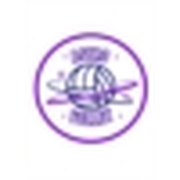
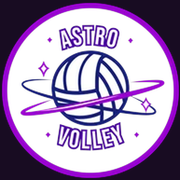
Nomi leggibili anche in prenota, icone giuste, cascata su tutte le card
Tre difetti visti a schermo, nessuno dei quali toccava i dati.

1. Nomi delle squadre in prenota. La pagina stampava turno.casa e
   turno.trasferta come arrivano dal foglio, cioe' in maiuscolo
   ("FLAT SPORT - SANTA MARIA ROSA NOVA"), mentre la home li scrive gia'
   con titolaNome. Ora anche prenota li formatta, e con loro le palestre,
   che stavano nello stesso riquadro e sarebbero rimaste maiuscole.

   titolaNome e normName passano in site/formato-nomi.js, importato da
   app.js e prenota.js: erano in app.js, ma prenota.js e' un modulo
   separato e una seconda copia sarebbe divergita. Il file si chiama
   formato-nomi.js e non nomi.js perche' site/prenota/nomi.js esiste gia'
   ed e' l'elenco dei refertisti.

   La formattazione resta solo nel rendering: le chiavi delle
   prenotazioni sono "data|casa|trasferta" sui nomi grezzi, e
   site/prenota/palestre.js e' indicizzato su quelle. Formattare il dato
   avrebbe rotto l'abbinamento con i turni gia' presi.

2. Icone. favicon.png era un'immagine diversa dallo stemma, tutta opaca,
   con gli angoli bianchi. Ora favicon, apple-touch-icon e le due icone
   del manifest si generano ridimensionando logo-tondo.png, che lo stemma
   lo e' gia' e ha gli angoli trasparenti. L'apple-touch-icon va su fondo
   #180c22 perche' iOS la trasparenza la ignora e mette il nero. Aggiunto
   manifest.json (l'app si puo' installare) e theme-color alle tre pagine.

3. Animazione delle card. C'erano quattro regole nth-child(1..4) e le
[…]

diff --git a/site/app.js b/site/app.js
@@ -1,5 +1,6 @@
 import { fetchLiveFipav, fetchLiveFipavMobile } from "./fipav-live.js";
 import { fetchLiveAsi } from "./asi-live.js";
+import { normName, titolaNome, slugify } from "./formato-nomi.js";
 
 const OUR_PATTERN = "astro";
 const DATA_URL = "data/schedule.json";
@@ -114,67 +115,6 @@ function allMatches() {
     for (const m of comp.matches) rows.push({ ...m, _comp: comp });
   }
   return rows;
-}
-
-// Confronto fra nomi: maiuscole, accenti e spazi non contano. Serve perche'
-// FIPAV e ASI scrivono lo stesso nome in modi diversi ("ASD ASTROVOLLEY").
-function normName(s) {
-  return (s || "")
-    .toLowerCase()
-    .normalize("NFD")
-    .replace(/[\u0300-\u036f]/g, "")
-    .replace(/\s+/g, " ")
-    .trim();
-}
-
-// I nomi arrivano scritti in modi diversi ("ASD ASTROVOLLEY", "Astrovolley
-// Cercola", "MINERVA MEDICA FLYER"): in card si mostrano tutti con la prima
-// lettera maiuscola. Gli acronimi restano maiuscoli, le preposizioni restano
-// minuscole, e dopo apostrofo o virgolette la lettera torna maiuscola.
-const ACRONIMI = new Set(["ASD", "SSD", "AS", "US", "GS", "PD", "IC", "APD", "A", "B", "C", "D"]);
-const MINUSCOLE = new Set(["di", "del", "della", "dei", "degli", "delle", "da", "dal", "in", "con",
-  "su", "per", "e", "ed", "il", "lo", "la", "i", "gli", "le", "un", "una", "al", "alla", "dello", "dell"]);
-
-// Refusi presenti nei nomi ufficiali FIPAV. Si correggono solo a schermo: i
-// dati restano quelli federali, cosi' il confronto con la fonte regge e una
-// rigenerazione dell'importer non annulla la correzione.
-const REFUSI = [
-  [/\bfemmnile\b/gi, "Femminile"],
-  // "Femminile- Eccellenza": nei dati il trattino e' attaccato alla parola
-  // prima. Si distanzia per leggibilita', senza toccare i trattini interni.
-  [/\s*-\s*/g, " - "],
-];
-
-function correggiRefusi(s) {
-  return REFUSI.reduce((acc, [re, giusto]) => acc.replace(re, giusto), s || "");
-}
-
-function titolaNome(s) {
-  const testo = (s || "").trim();
-  if (!testo) return "";
-  let n = 0;
-  const composto = testo
-    .split(/(\s+|[-–/])/)
-    .map((pezzo) => {
-      if (!pezzo || /^\s+$/.test(pezzo) || /^[-–/]$/.test(pezzo)) return pezzo;
-      const primaParola = n === 0;
-      n++;
-      const apo = pezzo.match(/^([A-Za-zÀ-ÿ]+)(['’])(.*)$/);
-      if (apo && !primaParola && MINUSCOLE.has(apo[1].toLowerCase())) {
-        return apo[1].toLowerCase() + apo[2] +
-          apo[3].toLowerCase().replace(/^([a-zà-ÿ])/, (c) => c.toUpperCase());
-      }
-      const puro = pezzo.replace(/[().,"'’]/g, "");
-      if (ACRONIMI.has(puro.toUpperCase())) return pezzo.toUpperCase();
-      if (!primaParola && MINUSCOLE.has(puro.toLowerCase())) return pezzo.toLowerCase();
-      return pezzo.toLowerCase().replace(/(^|['’"(\[.])([a-zà-ÿ])/g, (_, p2, c) => p2 + c.toUpperCase());
-    })
-    .join("");
-  return correggiRefusi(composto);
-}
-
-function slugify(s) {
-  return normName(s).replace(/[^a-z0-9]+/g, "-").replace(/^-|-$/g, "");
 }
 
 function teamConfig(slug) {
@@ -1433,7 +1373,7 @@ function teamCardHtml(t, i) {
   // La card intera porta al calendario. Il link e' vuoto e copre la card con
   // ::after: cosi' il click vale su tutta la superficie ma resta un solo
   // elemento da tastiera, e la prossima partita puo' stare sopra di lui.
-  return `<article class="team-card ${tema}" data-slug="${escapeAttr(t.slug)}">
+  return `<article class="team-card ${tema}" data-slug="${escapeAttr(t.slug)}" style="--i:${i}">
     <a class="card-link" href="?squadra=${escapeAttr(t.slug)}&vista=calendario" data-action="calendario" data-slug="${escapeAttr(t.slug)}">
       <span class="sr-only">Calendario di ${escapeHtml(titolaNome(t.nome))}</span>
     </a>

diff --git a/site/formato-nomi.js b/site/formato-nomi.js
@@ -1,0 +1,65 @@
+// Regole di scrittura dei nomi, condivise fra la home e la pagina prenota.
+//
+// Stanno qui e non in app.js perche' servono anche a prenota.js: due copie
+// divergerebbero e lo stesso nome comparirebbe scritto in due modi.
+
+// Confronto fra nomi: maiuscole, accenti e spazi non contano. Serve perche'
+// FIPAV e ASI scrivono lo stesso nome in modi diversi ("ASD ASTROVOLLEY").
+export function normName(s) {
+  return (s || "")
+    .toLowerCase()
+    .normalize("NFD")
+    .replace(/[\u0300-\u036f]/g, "")
+    .replace(/\s+/g, " ")
+    .trim();
+}
+
+// I nomi arrivano scritti in modi diversi ("ASD ASTROVOLLEY", "Astrovolley
+// Cercola", "MINERVA MEDICA FLYER"): in card si mostrano tutti con la prima
+// lettera maiuscola. Gli acronimi restano maiuscoli, le preposizioni restano
+// minuscole, e dopo apostrofo o virgolette la lettera torna maiuscola.
+const ACRONIMI = new Set(["ASD", "SSD", "AS", "US", "GS", "PD", "IC", "APD", "SMS", "A", "B", "C", "D"]);
+const MINUSCOLE = new Set(["di", "del", "della", "dei", "degli", "delle", "da", "dal", "in", "con",
+  "su", "per", "e", "ed", "il", "lo", "la", "i", "gli", "le", "un", "una", "al", "alla", "dello", "dell"]);
+
+// Refusi presenti nei nomi ufficiali FIPAV. Si correggono solo a schermo: i
+// dati restano quelli federali, cosi' il confronto con la fonte regge e una
+// rigenerazione dell'importer non annulla la correzione.
+const REFUSI = [
+  [/\bfemmnile\b/gi, "Femminile"],
+  // "Femminile- Eccellenza": nei dati il trattino e' attaccato alla parola
+  // prima. Si distanzia per leggibilita', senza toccare i trattini interni.
+  [/\s*-\s*/g, " - "],
+];
+
+export function correggiRefusi(s) {
+  return REFUSI.reduce((acc, [re, giusto]) => acc.replace(re, giusto), s || "");
+}
+
+export function titolaNome(s) {
+  const testo = (s || "").trim();
+  if (!testo) return "";
+  let n = 0;
+  const composto = testo
+    .split(/(\s+|[-–/])/)
+    .map((pezzo) => {
+      if (!pezzo || /^\s+$/.test(pezzo) || /^[-–/]$/.test(pezzo)) return pezzo;
+      const primaParola = n === 0;
+      n++;
+      const apo = pezzo.match(/^([A-Za-zÀ-ÿ]+)(['’])(.*)$/);
+      if (apo && !primaParola && MINUSCOLE.has(apo[1].toLowerCase())) {
+        return apo[1].toLowerCase() + apo[2] +
+          apo[3].toLowerCase().replace(/^([a-zà-ÿ])/, (c) => c.toUpperCase());
+      }
+      const puro = pezzo.replace(/[().,"'’]/g, "");
+      if (ACRONIMI.has(puro.toUpperCase())) return pezzo.toUpperCase();
+      if (!primaParola && MINUSCOLE.has(puro.toLowerCase())) return pezzo.toLowerCase();
+      return pezzo.toLowerCase().replace(/(^|['’"(\[.])([a-zà-ÿ])/g, (_, p2, c) => p2 + c.toUpperCase());
+    })
+    .join("");
+  return correggiRefusi(composto);
+}
+
+export function slugify(s) {
+  return normName(s).replace(/[^a-z0-9]+/g, "-").replace(/^-|-$/g, "");
+}

diff --git a/site/tema.css b/site/tema.css
@@ -162,11 +162,14 @@ body {
 .hero .updated { animation: fade-up 700ms var(--ease-out) 400ms both; }
 .brand-mark { animation: pop 700ms var(--ease-out) 60ms both; }
 
-/* --- card squadra: entrata a cascata (--i lo imposta app.js? no: nth-child) --- */
-.landing-grid > .team-card:nth-child(1) { animation: fade-up 620ms var(--ease-out) 0ms both; }
-.landing-grid > .team-card:nth-child(2) { animation: fade-up 620ms var(--ease-out) 90ms both; }
-.landing-grid > .team-card:nth-child(3) { animation: fade-up 620ms var(--ease-out) 180ms both; }
-.landing-grid > .team-card:nth-child(4) { animation: fade-up 620ms var(--ease-out) 270ms both; }
+/* --- card squadra: entrata a cascata.
+   Il ritardo viene da --i, che app.js scrive sulla card: cosi' vale per tutte
+   le card, anche oltre la quarta, e regge se l'elenco cambia. Il tetto a 8
+   evita che con molte squadre l'ultima arrivi troppo tardi. --- */
+.landing-grid > .team-card {
+  animation: fade-up 620ms var(--ease-out) both;
+  animation-delay: calc(min(var(--i, 0), 8) * 90ms);
+}
 
 /* --- righe del calendario: entrata a cascata.
    nth-child invece di una variabile: app.js non espone l'indice, e cosi'
@@ -252,6 +255,7 @@ body {
 @media (prefers-reduced-motion: reduce) {
   *, *::before, *::after {
     animation-duration: .001ms !important;
+    animation-delay: 0ms !important;
     animation-iteration-count: 1 !important;
     transition-duration: .001ms !important;
     scroll-behavior: auto !important;

diff --git a/site/prenota/prenota.js b/site/prenota/prenota.js
@@ -18,6 +18,7 @@
 import { URL_BACKEND, URL_CSV } from "./config.js";
 import { NOMI_REFERTISTI } from "./nomi.js";
 import { PALESTRE } from "./palestre.js";
+import { titolaNome } from "../formato-nomi.js";
 
 const CHIAVE_NOME = "astrovolley.nome";
 
@@ -539,11 +540,11 @@ function schedaHtml(turno, nome) {
         <span class="w">${escapeHtml(d.sett.slice(0, 3))}</span>
       </div>
       <div class="prn-info">
-        <h3>${escapeHtml(turno.casa)} – ${escapeHtml(turno.trasferta)}</h3>
+        <h3>${escapeHtml(titolaNome(turno.casa))} – ${escapeHtml(titolaNome(turno.trasferta))}</h3>
         <div class="prn-meta">
           <span>${escapeHtml(d.sett)} ${escapeHtml(d.g)} ${escapeHtml(d.mese)} · ${escapeHtml(d.ora)}</span>
           ${palestra ? `<span class="dot">·</span>
-          <span class="prn-palestra">${escapeHtml(palestra)}</span>` : ""}
+          <span class="prn-palestra">${escapeHtml(titolaNome(palestra))}</span>` : ""}
         </div>
       </div>
       <div class="prn-side">

diff --git a/site/prenota/index.html b/site/prenota/index.html
@@ -10,6 +10,9 @@
   <link rel="preconnect" href="https://fonts.gstatic.com" crossorigin />
   <link href="https://fonts.googleapis.com/css2?family=Inter:wght@400;500;600;700&family=Plus+Jakarta+Sans:wght@600;700;800&display=swap" rel="stylesheet" />
   <link rel="icon" type="image/png" href="../assets/favicon.png" />
+  <link rel="apple-touch-icon" href="../assets/apple-touch-icon.png" />
+  <link rel="manifest" href="../manifest.json" />
+  <meta name="theme-color" content="#180c22" />
   <!-- Solo prenota.css: questa pagina ha una sua palette viola e le sue schede
        partita. Caricare styles.css sovrascriverebbe le variabili. -->
   <link rel="stylesheet" href="prenota.css" />

diff --git a/site/dirigenza/index.html b/site/dirigenza/index.html
@@ -10,6 +10,9 @@
   <link rel="preconnect" href="https://fonts.gstatic.com" crossorigin />
   <link href="https://fonts.googleapis.com/css2?family=Inter:wght@400;500;600;700&family=Plus+Jakarta+Sans:wght@600;700;800&display=swap" rel="stylesheet" />
   <link rel="icon" type="image/png" href="../assets/favicon.png" />
+  <link rel="apple-touch-icon" href="../assets/apple-touch-icon.png" />
+  <link rel="manifest" href="../manifest.json" />
+  <meta name="theme-color" content="#180c22" />
   <link rel="stylesheet" href="../styles.css" />
   <!-- Tema ufficiale: colori e animazioni, caricato dopo gli stili della
        pagina. Struttura e misure restano in dirigenza.css. -->

diff --git a/site/index.html b/site/index.html
@@ -10,6 +10,8 @@
   <link href="https://fonts.googleapis.com/css2?family=Inter:wght@400;500;600;700&family=Plus+Jakarta+Sans:wght@600;700;800&display=swap" rel="stylesheet" />
   <link rel="icon" type="image/png" href="assets/favicon.png" />
   <link rel="apple-touch-icon" href="assets/apple-touch-icon.png" />
+  <link rel="manifest" href="manifest.json" />
+  <meta name="theme-color" content="#180c22" />
   <link rel="stylesheet" href="styles.css" />
   <!-- Tema ufficiale: colori e animazioni, dopo gli stili strutturali. -->
   <link rel="stylesheet" href="tema.css" />

diff --git a/AGENTS.md b/AGENTS.md
@@ -73,6 +73,12 @@ trasparenza a una frazione del peso di un PNG.
 
 - `site/assets/logo.webp` — stemma della societa' nell'header. 192px: il CSS lo mostra a
   54px, quindi copre fino a DPR 3.5. Non e' un logo di squadra e non lo tocca l'importer.
+- `site/assets/logo-tondo.png` — lo stesso stemma gia' ritagliato in cerchio (angoli
+  trasparenti). E' la sorgente delle icone: `favicon.png` (32), `apple-touch-icon.png`
+  (180), `icona-192.png` e `icona-512.png` (manifest). Si rigenerano ridimensionando
+  questo file, non ridisegnandole: prima erano un'altra immagine, opaca e diversa dallo
+  stemma. L'apple-touch-icon va **senza** trasparenza, su fondo `#180c22`: iOS altrimenti
+  ci mette il nero.
 - `site/assets/loghi/fipav/<id>.webp` — nome = id societa' FIPAV.
 - `site/assets/loghi/asi/squadra-<id>.webp` — nome = id squadra dell'API ASI.
 - Gli id sono stabili, i nomi delle squadre no: non usare i nomi come nome file.
@@ -149,6 +155,14 @@ mostra un avviso. Senza `id` la pagina legge solo il file.
 - `generato_il` è UTC **con** il fuso (`+00:00`): va passato intero a `new Date()`.
   Troncarlo (`.slice(0,19)`) lo fa leggere come ora locale e in Italia il dato sembra
   vecchio di un'ora appena scritto.
+- **Nomi propri scritti a mano**: `site/formato-nomi.js` raccoglie `normName`,
+  `titolaNome` e `slugify`, condivisi da `app.js` e `prenota.js`. `titolaNome` si applica
+  **solo al rendering**: i dati grezzi restano quelli federali/del foglio, perche' le
+  chiavi delle prenotazioni (`data|casa|trasferta`, vedi `site/prenota/palestre.js`) sono
+  costruite sui nomi originali. Formattare il dato invece della sua resa romperebbe
+  l'abbinamento con i turni gia' prenotati. Il modulo sta fuori da `app.js` perche' due
+  copie divergerebbero; non va confuso con `site/prenota/nomi.js`, che e' l'elenco dei
+  refertisti.
 - `app.js` è un **modulo ES** (`<script type="module">`), quindi `file://` non funziona:
   serve un server HTTP.
 
@@ -335,6 +349,15 @@ mezzo campionato: non togliere quel controllo.
 - Le velature di esito sono due regole distinte (`.round-match`, `.fixture-row`)
   con gli stessi valori: se ne cambi una, cambia l'altra. Verifica con
   `getComputedStyle().backgroundImage` che siano identiche, non a occhio.
+- **Animazioni a cascata: usa `--i`, non `nth-child`.** Le card avevano quattro
+  regole `nth-child(1..4)`: con sei squadre le ultime due entravano senza
+  animazione. Ora `app.js` scrive `style="--i:<indice>"` sulla card e il CSS fa
+  `animation-delay: calc(min(var(--i), 8) * 90ms)`. Cosi' vale per qualunque
+  numero di card e regge se l'elenco cambia.
+- **`prefers-reduced-motion` deve azzerare anche `animation-delay`.** Con
+  `animation-fill-mode: both` e un ritardo non azzerato, l'elemento resta
+  invisibile per tutta la durata del ritardo: chi chiede meno movimento vede la
+  pagina vuota per ~400ms. Il blocco in `tema.css` azzera durata **e** ritardo.
 
 ## Filtri del calendario (site/app.js)
 - La barra in alto mostra **due chip**: l'etichetta della vista attiva
